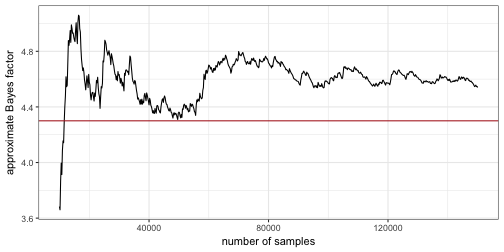
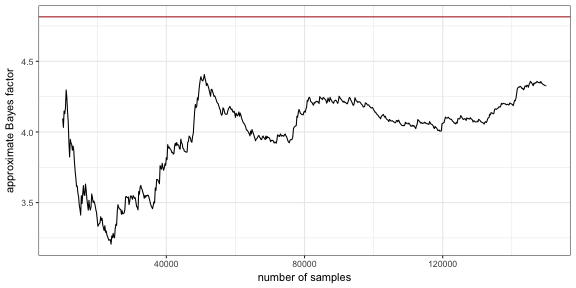
temp development of naive MC

Changed region(s): [[0.0, 0.0, 1.0, 1.0]]

diff --git a/_posts/2017-07-07-BF_computation.md b/_posts/2017-07-07-BF_computation.md
@@ -228,14 +228,14 @@ An approximation of the Bayes factor in favor of the complex model is then:
  
 
 {% highlight r %}
-paste0("Approximate Bayes factor in favor of the complex model (using Savage-Dickey): ", 
+paste0("Approximate BF in favor of complex model (Savage-Dickey): ", 
        round(1/posterior_w,3) )
 {% endhighlight %}
 
 
 
 {% highlight text %}
-## [1] "Approximate Bayes factor in favor of the complex model (using Savage-Dickey): 4.54"
+## [1] "Approximate BF in favor of complex model (Savage-Dickey): 4.815"
 {% endhighlight %}
  
 In sum, the Savage-Dickey method is an elegant and practical method for computing (or approximating, if based on sampling) Bayes factors for properly nested models. It is particularly useful when the nested model fixes just a small number of parameters that are free in the nesting model. The method needs to go through two bottlenecks that can introduce imprecision in an estimate: first, we may have to rely on posterior samples; second, we may have to rely an numerical approximation of a point-density from the samples.
@@ -332,14 +332,14 @@ The final result is reaonably close to the previous one from the Savage-Dickey m
  
 
 {% highlight r %}
-paste0("Approximate Bayes factor in favor of the complex model (using naive MC): ", 
+paste0("Approximate BF in favor of complex model (naive MC): ", 
        round(marg_lh_complex/marg_lh_simple ,3))
 {% endhighlight %}
 
 
 
 {% highlight text %}
-## [1] "Approximate Bayes factor in favor of the complex model (using naive MC): 4.518"
+## [1] "Approximate BF in favor of complex model (naive MC): 4.447"
 {% endhighlight %}
  
 It is diagnostic to see the temporal development of the Bayes factor approximation as more and more samples are taken. This is plotted here, comparing it also the result from the Savage-Dickey method (the red line).
@@ -349,9 +349,13 @@ It is diagnostic to see the temporal development of the Bayes factor approximati
 BFVec = sapply(seq(10000,nSamples, by = 200), 
                function(i) samples_complex[1:i] %>% exp %>% mean / 
                            samples_simple[1:i]  %>% exp %>% mean)
-ggplot(data.frame(i = seq(10000,nSamples, by = 200), BF = BFVec), aes(x=i, y=BF)) +
-  geom_line() + geom_hline(yintercept = 4.3, color = "firebrick") + 
-  xlab("number of samples") + ylab('approximate Bayes factor') %>% show
+ggplot(data.frame(i = seq(10000,nSamples, by = 200), 
+                  BF = BFVec), 
+       aes(x=i, y=BF)) +
+  geom_line() + 
+  geom_hline(yintercept = 1/posterior_w,3, color = "firebrick") + 
+  xlab("number of samples") + 
+  ylab('approximate Bayes factor')
 {% endhighlight %}
 
 <img src="/mfpics/2017-07-07-BF_computation.Rmd/naiveMCtemp-1.png" title="plot of chunk naiveMCtemp" alt="plot of chunk naiveMCtemp" style="display: block; margin: auto;" />

diff --git a/_posts/2017-02-27-CorrelationMultinomial.md b/_posts/2017-02-27-CorrelationMultinomial.md
@@ -121,7 +121,7 @@ show(qplot(pred, obs) + ylab("observation") + xlab('prediction'))
 ![plot of chunk unnamed-chunk-5](/mfpics/2017-02-27-CorrelationMultinomial.Rmd/unnamed-chunk-5-1.png)
  
  
-The correlation score of 0.9708 is very high (and immensely significant). We are heading towards a publication here!
+The correlation score of 0.9712 is very high (and immensely significant). We are heading towards a publication here!
  
 But wait a minute. Actually, half of our prediction values are superfluous in a sense. If we predict choice probability $$p$$ for one option, the model must predict $$1-p$$ for the other, of course. Similarly if the observed choice frequency of one option is $$f$$, that of the other must be $$1-f$$. So what happens if we scrap the redundant part of our data? Let's grab the predictions and frequencies for only one of the two options:
  
@@ -134,7 +134,7 @@ show(qplot(predInd, obsInd) + ylab("observation") + xlab('prediction'))
 
 ![plot of chunk unnamed-chunk-6](/mfpics/2017-02-27-CorrelationMultinomial.Rmd/unnamed-chunk-6-1.png)
  
-That doesn't look like a tremendous achievement anymore and, indeed, the correlation score is a poor man's -0.1959. 
+That doesn't look like a tremendous achievement anymore and, indeed, the correlation score is a poor man's -0.03. 
  
 Bottomline: if we look at what the model predicts for both choice options, we get a very high correlation. But predictions and observations for one choice option fully determine the other, so this part of the information seems entirely redundant. Yet, if we leave it out, our measure of glory plummets. What to make of this?
  
